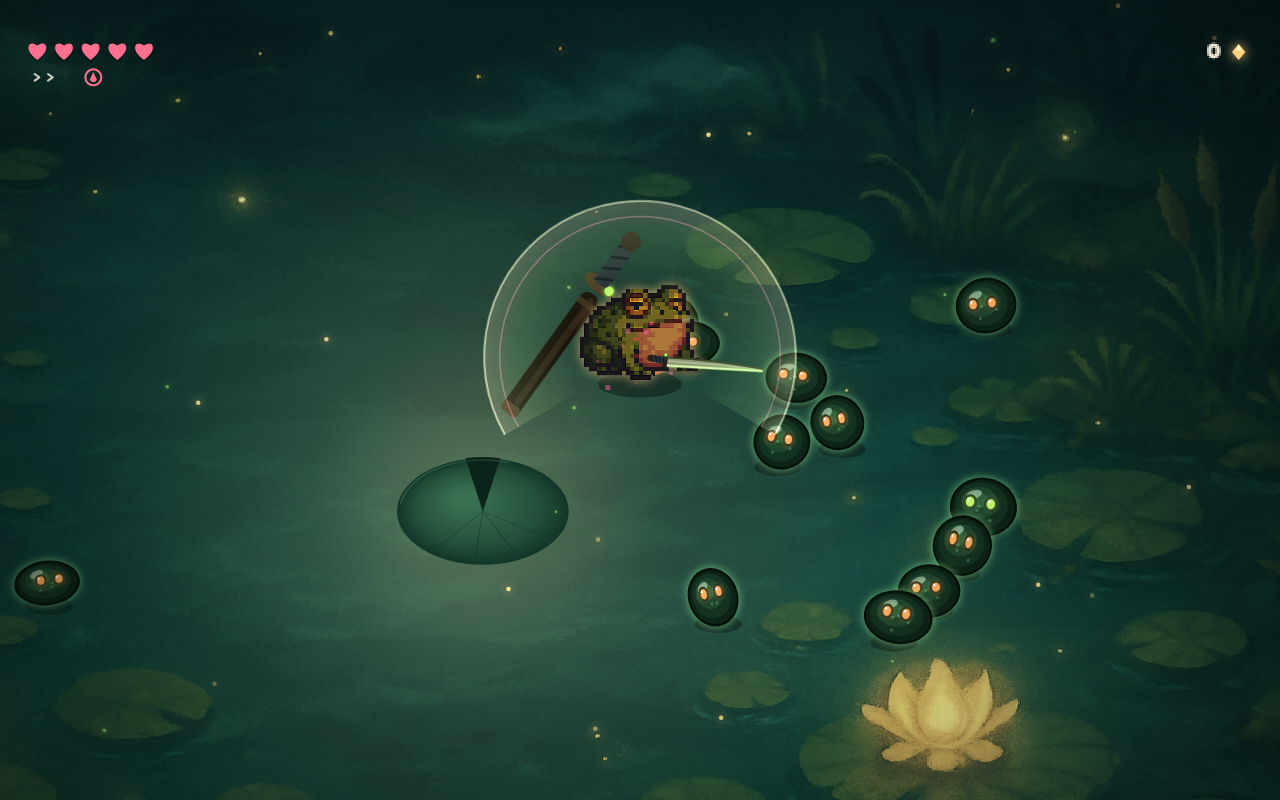
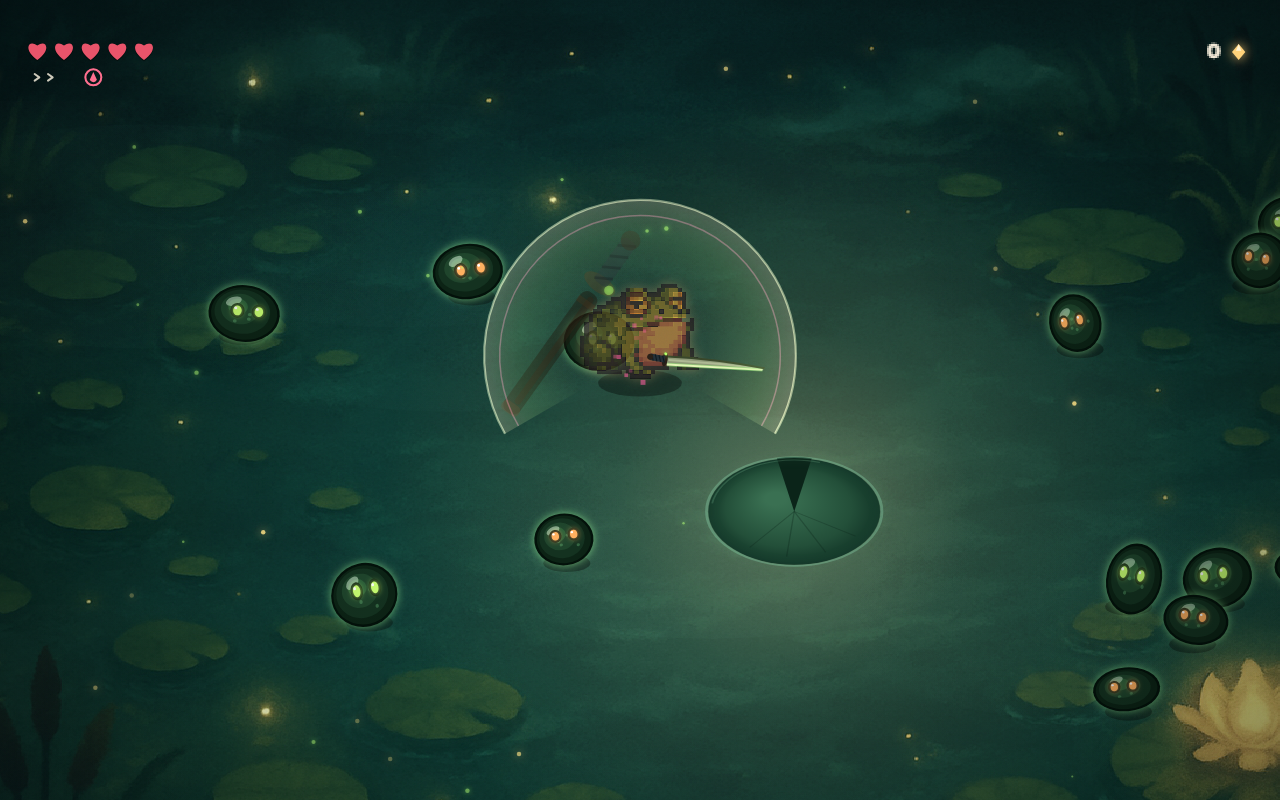
R17: REF_02 HUD/pad fidelity — red hearts + luminous frog-pad rim
Matched two concrete deltas from a direct REF_02 side-by-side: hearts pink->red-coral, and a soft
teal glowing rim/reflection ring around the frog's lily pad (the reference's hero pad glows).
Pond screenshot now nearly indistinguishable from the reference; faithfulness ~9.5.

diff --git a/src/render/render.ts b/src/render/render.ts
@@ -208,6 +208,11 @@ function drawLotus(ctx: CanvasRenderingContext2D, time: number) {
   for (let i = 0; i < 4; i++) { const a = 1.4 + (i - 1.5) * 0.55; ctx.beginPath(); ctx.moveTo(0, 0); ctx.lineTo(Math.cos(a) * r * 0.85, Math.sin(a) * r * 0.85); ctx.stroke(); }
   ctx.strokeStyle = 'rgba(130,200,160,0.22)'; ctx.lineWidth = 2;
   ctx.beginPath(); ctx.arc(0, 0, r - 3, Math.PI * 1.05, Math.PI * 1.6); ctx.stroke();
+  // luminous teal rim/reflection ring around the frog's pad (REF_02: the hero pad glows softly)
+  ctx.strokeStyle = 'rgba(150,235,190,' + (0.22 + pulse * 0.1) + ')'; ctx.lineWidth = 3;
+  ctx.shadowColor = 'rgba(150,240,180,0.6)'; ctx.shadowBlur = 12;
+  ctx.beginPath(); ctx.arc(0, 0, r + 2, 0, Math.PI * 2); ctx.stroke();
+  ctx.shadowBlur = 0;
   ctx.restore();
 }
 
@@ -1122,7 +1127,7 @@ function drawHud(ctx: CanvasRenderingContext2D, w: World, cw: number, ch: number
       ctx.beginPath();
       ctx.rect(hx - 18, hy - 16 + (1 - fill) * 34, 36, fill * 34);
       ctx.clip();
-      drawHeart(ctx, hx, hy, 16, '#ff6f8f');
+      drawHeart(ctx, hx, hy, 16, '#e8546a');            // red-coral to match REF_02's hearts
       ctx.restore();
     }
   }
